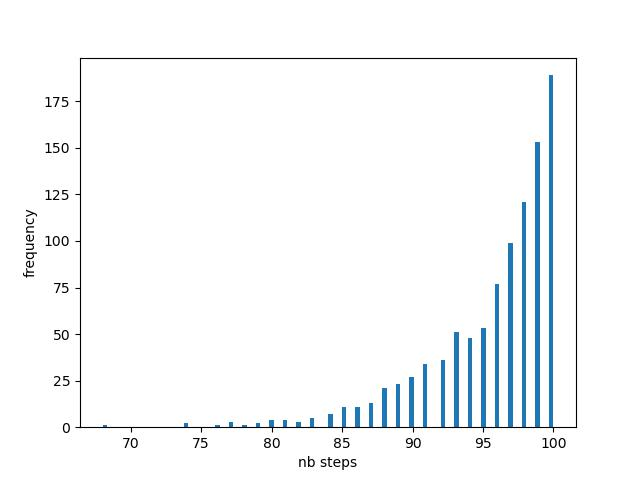
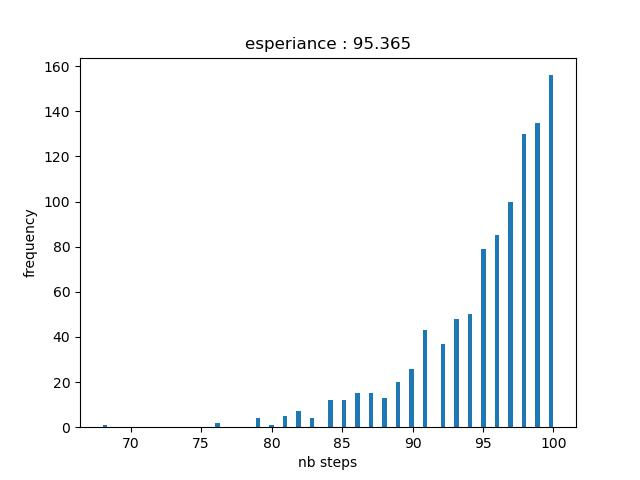
complete

diff --git a/Projet1/strategy/mont_str.py b/Projet1/strategy/mont_str.py
@@ -14,18 +14,25 @@ class Mont_str(Strategy):
 	
 	def affiche_stat(self,fois):
 		data=[]
+		esp=0.0
 		for i in range(fois):
+			print(i)
 			self.bat.reset()
 			data.append(self.jouer())
+			esp+=data[-1]
 		plt.hist(data,bins=100)
 		plt.xlabel("nb steps")
 		plt.ylabel("frequency")
+		plt.title("esperiance : "+str(esp/fois))
 		plt.savefig('./figures/mont.jpg')
 		
 	def salle_de_representation_dartillerie_modifiee(self):
 		prop_mat=numpy.zeros((10,10))
 		for attempt in range(100):
-			prop_mat+=self.case_matrix()
+			m=self.case_matrix()
+			while m.min()<0:
+				m=self.case_matrix()
+			prop_mat+=m
 		prop_mat*=1-self.bat.toucher_cible
 		if Grille.eq(prop_mat,numpy.zeros((10,10))):
 			return super().generer_alea()
@@ -41,8 +48,11 @@ class Mont_str(Strategy):
 					mat_sunk[x][y]=1
 		gTemp.grille=self.bat.record-self.bat.toucher_cible+mat_sunk
 		for bateau in remain:
-			if gTemp.place_alea_restricted(gTemp.grille,bateau,100)==0:
+			if gTemp.place_alea_restricted(gTemp.grille,bateau,1000)==0:
 				return self.case_matrix()
 		if (gTemp.grille-self.bat.toucher_cible).min()<0:
-			return self.case_matrix()
+			try:
+				return self.case_matrix()
+			except Exception as e:
+				return gTemp.grille-self.bat.toucher_cible
 		return gTemp.grille-(self.bat.record-self.bat.toucher_cible+mat_sunk)

diff --git a/Projet1/strategy/prob_str.py b/Projet1/strategy/prob_str.py
@@ -35,12 +35,15 @@ class Prob_str(Strategy):
 	
 	def affiche_stat(self,fois):
 		data=[]
+		esp=0.0
 		for i in range(fois):
 			self.bat.reset()
 			data.append(self.jouer())
+			esp+=data[-1]
 		plt.hist(data,bins=100)
 		plt.xlabel("nb steps")
 		plt.ylabel("frequency")
+		plt.title("esperiance : "+str(esp/fois))
 		plt.savefig('./figures/prob.jpg')
 		
 	def prop_position(self):

diff --git a/Projet1/strategy/alea_str.py b/Projet1/strategy/alea_str.py
@@ -13,10 +13,13 @@ class Alea_str(Strategy):
 	
 	def affiche_stat(self,fois):
 		data=[]
+		esp=0.0
 		for i in range(fois):
 			self.bat.reset()
 			data.append(self.jouer())
+			esp+=data[-1]
 		plt.hist(data,bins=100)
 		plt.xlabel("nb steps")
 		plt.ylabel("frequency")
+		plt.title("esperiance : "+str(esp/fois))
 		plt.savefig('./figures/alea.jpg')

diff --git a/Projet1/strategy/heur_str.py b/Projet1/strategy/heur_str.py
@@ -35,10 +35,13 @@ class Heur_str(Strategy):
 	
 	def affiche_stat(self,fois):
 		data=[]
+		esp=0.0
 		for i in range(fois):
 			self.bat.reset()
 			data.append(self.jouer())
+			esp+=data[-1]
 		plt.hist(data,bins=100)
 		plt.xlabel("nb steps")
 		plt.ylabel("frequency")
+		plt.title("esperiance : "+str(esp/fois))
 		plt.savefig('./figures/heur.jpg')

diff --git a/Projet1/test_Partie3.py b/Projet1/test_Partie3.py
@@ -12,3 +12,7 @@ from strategy import *
 #prob=Prob_str()
 #print(prob.jouer())
 #prob.affiche_stat(100)
+
+mont=Mont_str()
+print(mont.jouer())
+mont.affiche_stat(100)

diff --git a/Projet1/debug.py b/Projet1/debug.py
@@ -1,6 +1,6 @@
 from model import *
 from strategy import *
 
-mont=Mont_str()
+mont=Prob_str()
 print(mont.jouer())
-#mont.affiche_stat(100)
+mont.affiche_stat(100)
